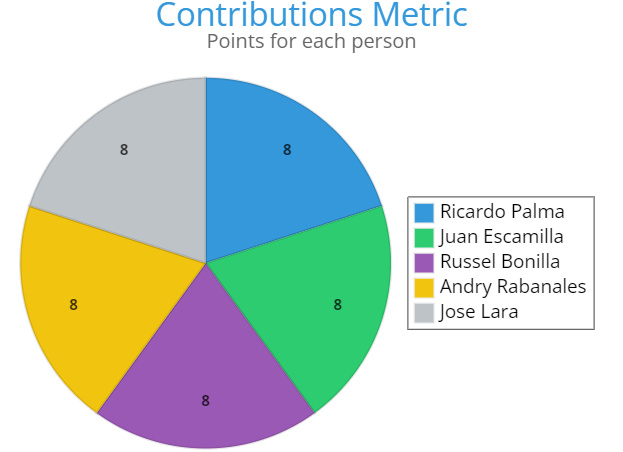
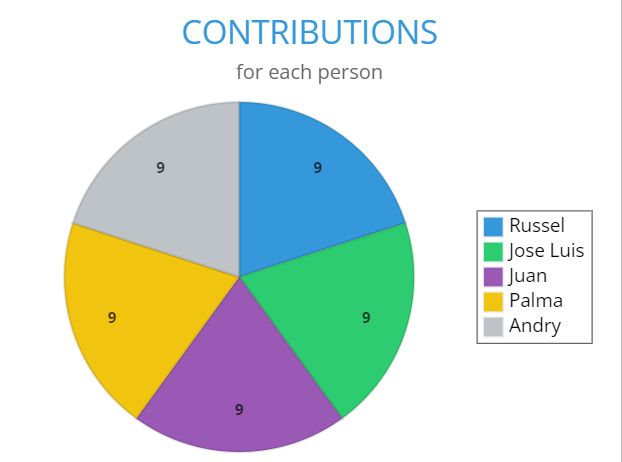
Contributions and Meetings are done

diff --git a/docs/Contributions/contribution.md b/docs/Contributions/contribution.md
@@ -1,0 +1,142 @@
+<h1>Contributions</h1>
+
+<table>
+<!-- Titles -->
+<tr>
+  <td><strong>Activity</strong></td>
+  <td><strong>Work Contributions</strong></td>
+  <td><strong>Score</strong></td>
+</tr>
+<!-- Este es un comentario oculto en Markdown -->
+<tr>
+  <td>1.-Description of the evolution of the product (Mention in a summarized way the most significant changes and that there is evidence.) </td>
+  <td>Russel</td>
+  <td>1 pt</td>
+</tr>
+<!-- Este es un comentario oculto en Markdown -->
+<tr>
+    <td>2.-Description of the evolution of the requirements/artifacts</td>
+    <td>All the team</td>
+    <td>1 pts</td>
+</tr>
+<!-- Este es un comentario oculto en Markdown -->
+<tr>
+  <td>3.-Class diagram </td>
+  <td>Juan </td>
+ <td>2 pts</td>
+</tr>
+<!-- Este es un comentario oculto en Markdown -->
+<tr>
+  <td>4.-Verificación de los requerimientos funcionales y no funcionales </td>
+  <td>(The entire team will work on this, but individually depending on the functional requirement that they had) </td>
+ <td>2 pts</td>
+</tr>
+<!-- Este es un comentario oculto en Markdown -->
+<tr>
+  <td>5.-Artifact that indicates the total contribution metrics (of the three deliveries in one) </td>
+  <td>All the team will work on this </td>
+ <td>1 pt</td>
+</tr>
+<!-- Este es un comentario oculto en Markdown -->
+<tr>
+  <td>6.-Record of meetings and agreements (binnacle) </td>
+  <td>Andry </td>
+ <td>1 pt</td>
+</tr>
+<!-- Este es un comentario oculto en Markdown -->
+<tr>
+  <td>7.-Organize activities to be carried out and meetings</td>
+  <td>Andry </td>
+ <td>1 pt</td>
+</tr>
+<!-- Este es un comentario oculto en Markdown -->
+<tr>
+  <td>8.-Description of the process (There is explicit evidence of (the) sprints: the size of the sprint, planning, activities, those responsible, roles, results.)</td>
+  <td>Russel</td>
+ <td>1 pt</td>
+</tr>
+<!-- Este es un comentario oculto en Markdown -->
+<tr>
+  <td>9.-Presentation and video (balanced slides..., in English, with relevant information, 5 minutes)</td>
+  <td>Palma and Jose Luis</td>
+ <td>2 pts</td>
+</tr>
+
+<!-- Este es un comentario oculto en Markdown -->
+<tr>
+  <td>10.-Programming a part of the View</td>
+  <td>Palma and Jose Luis</td>
+ <td>3 pts</td>
+</tr>
+
+<!-- Este es un comentario oculto en Markdown -->
+<tr>
+  <td>11.-Programming other part of the View</td>
+  <td>Palma and Jose Luis</td>
+ <td>3 pts</td>
+</tr>
+
+<!-- Este es un comentario oculto en Markdown -->
+<tr>
+  <td>12.-Controller programming </td>
+  <td>Palma and Jose Luis</td>
+ <td>3 pts</td>
+</tr>
+
+<!-- Este es un comentario oculto en Markdown -->
+<tr>
+  <td>13.-Programming of Utils classes used by mvc </td>
+  <td>Palma and Jose Luis</td>
+ <td>3 pts</td>
+</tr>
+
+<!-- Este es un comentario oculto en Markdown -->
+<tr>
+  <td>14.-Programming mentors</td>
+  <td>Palma and Jose Luis</td>
+ <td>3 pts</td>
+</tr>
+
+<tr>
+  <td>15.-Non-functional UI prototype </td>
+  <td>Palma and Jose Luis</td>
+ <td>2 pts</td>
+</tr>
+
+
+<!-- Este es un comentario oculto en Markdown -->
+<tr>
+  <td>16.-Programming of Utils classes used by the mvc (With the mentoring of Palma)</td>
+  <td>Palma and Jose Luis</td>
+ <td>3pts</td>
+</tr>
+
+<!-- Este es un comentario oculto en Markdown -->
+<tr>
+  <td>17.-Model training </td>
+  <td>Palma and Jose Luis</td>
+ <td>2 pts</td>
+</tr>
+
+<!-- Este es un comentario oculto en Markdown -->
+<tr>
+  <td>18.-Writing generic and disciplinary competencies on GitHub</td>
+  <td>Palma and Jose Luis</td>
+ <td>1 pt1</td>
+</tr>
+
+<!-- Este es un comentario oculto en Markdown -->
+<tr>
+  <td>19.-Writing on GitHub of the Areas for improvement</td>
+  <td>Palma and Jose Luis</td>
+ <td>1 pt1</td>
+</tr>
+
+
+</table>
+
+<img style="widht:100vh;" src="contribution1.png">
+
+<img style="widht:100vh;" src="contribution2.png">
+
+<img style="widht:100vh;" src="contribution.png">

diff --git a/docs/Meetings/readme.md b/docs/Meetings/readme.md
@@ -5,11 +5,19 @@
   <td><strong>Meeting</strong></td>
   <td><strong>Overview</strong></td>
 </tr>
+
 <!-- Este es un comentario oculto en Markdown -->
 <tr>
-  <td>18 sep-28 sep </td>
-  <td>We discussed the options and projects we wanted to work on, in order to decide which one to choose, we discussed the level of complexity and the methodologies we would use, then we created the first main section and discussed the requirements and what we wanted to do.</td>
-  <td>First we divided the work with its respective difficulty, we agreed that as we would work on the parts as a team and individually, first we worked on the part in teams, such as the requirements and the UML, to finally do our individual part to keep an order of our project.</td>
+  <td>14 sep-12 sep </td>
+  <td>We discussed how the contributions would be divided</td>
+  <td>Then, all the team had an agreements about the contributions of each person</td>
+</tr>
+
+<!-- Este es un comentario oculto en Markdown -->
+<tr>
+  <td>11-14 December </td>
+  <td>We discussed about how the team would train the signs.</td>
+  <td>First we asked who could be able to do that,so each person decides what would train for.</td>
 </tr>
 
 </table>
